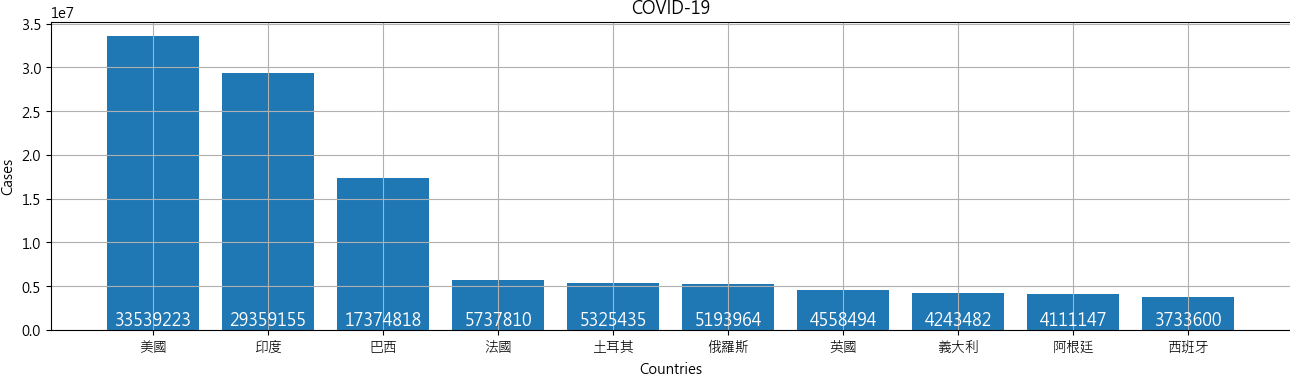
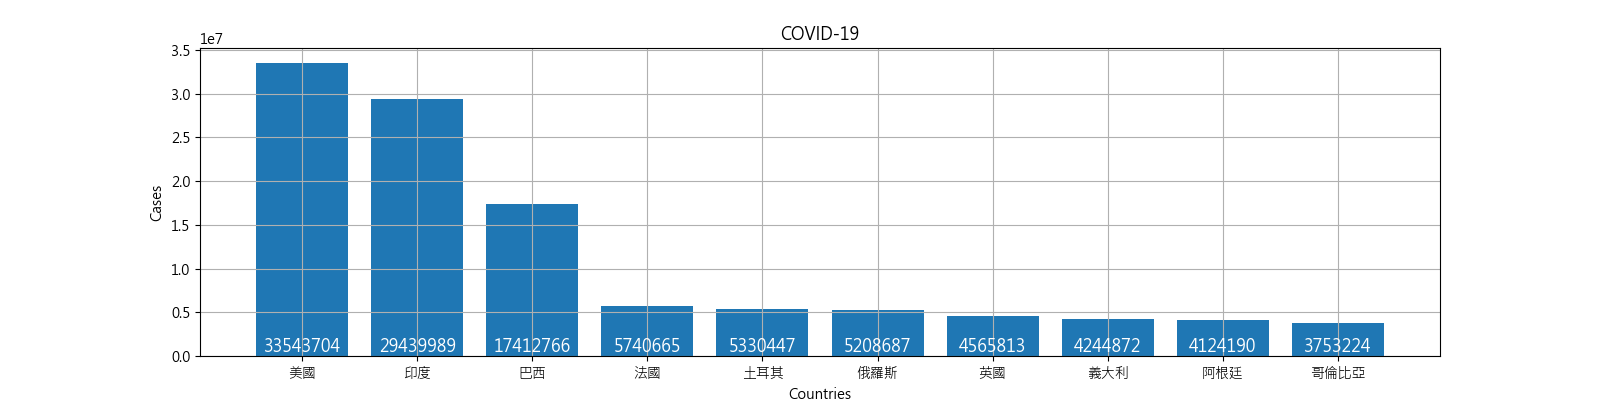
modify bar

diff --git a/templates/index.html b/templates/index.html
@@ -88,7 +88,7 @@
     </script>
     {% endif %}
     <p>
-    <input type ="button" onclick="javascript:location.href='/show_bar/'" value="繪出長條圖">
+    <input type ="button" onclick="javascript:location.href='/show_bar/'" value="繪出/更新長條圖">
     </input>
     <p>
     <img src="static/images/barchart1.png" />

diff --git a/dashboard/views.py b/dashboard/views.py
@@ -47,7 +47,7 @@ def show_bar(request):
     plt.grid(True)
     for a,b in zip(x, covid19_cases):
         plt.text(a, b-b, '%.0f' % b, ha='center', va= 'bottom',fontsize=12,color="white")
-    plt.savefig('static/images/barchart1.png',bbox_inches='tight',pad_inches=0.0)
+    plt.savefig('static/images/barchart1.png',pad_inches=0.0) # ,bbox_inches='tight'
     plt.close('all')
 
     covid19_deaths = []
@@ -64,7 +64,7 @@ def show_bar(request):
     plt.grid(True)
     for a,b in zip(x, covid19_deaths):
         plt.text(a, b-b, '%.0f' % b, ha='center', va= 'bottom',fontsize=12,color="white")
-    plt.savefig('static/images/barchart2.png',bbox_inches='tight',pad_inches=0.0)
+    plt.savefig('static/images/barchart2.png',pad_inches=0.0) # ,bbox_inches='tight'
     plt.close('all')
 
     return HttpResponseRedirect(reverse(index))
